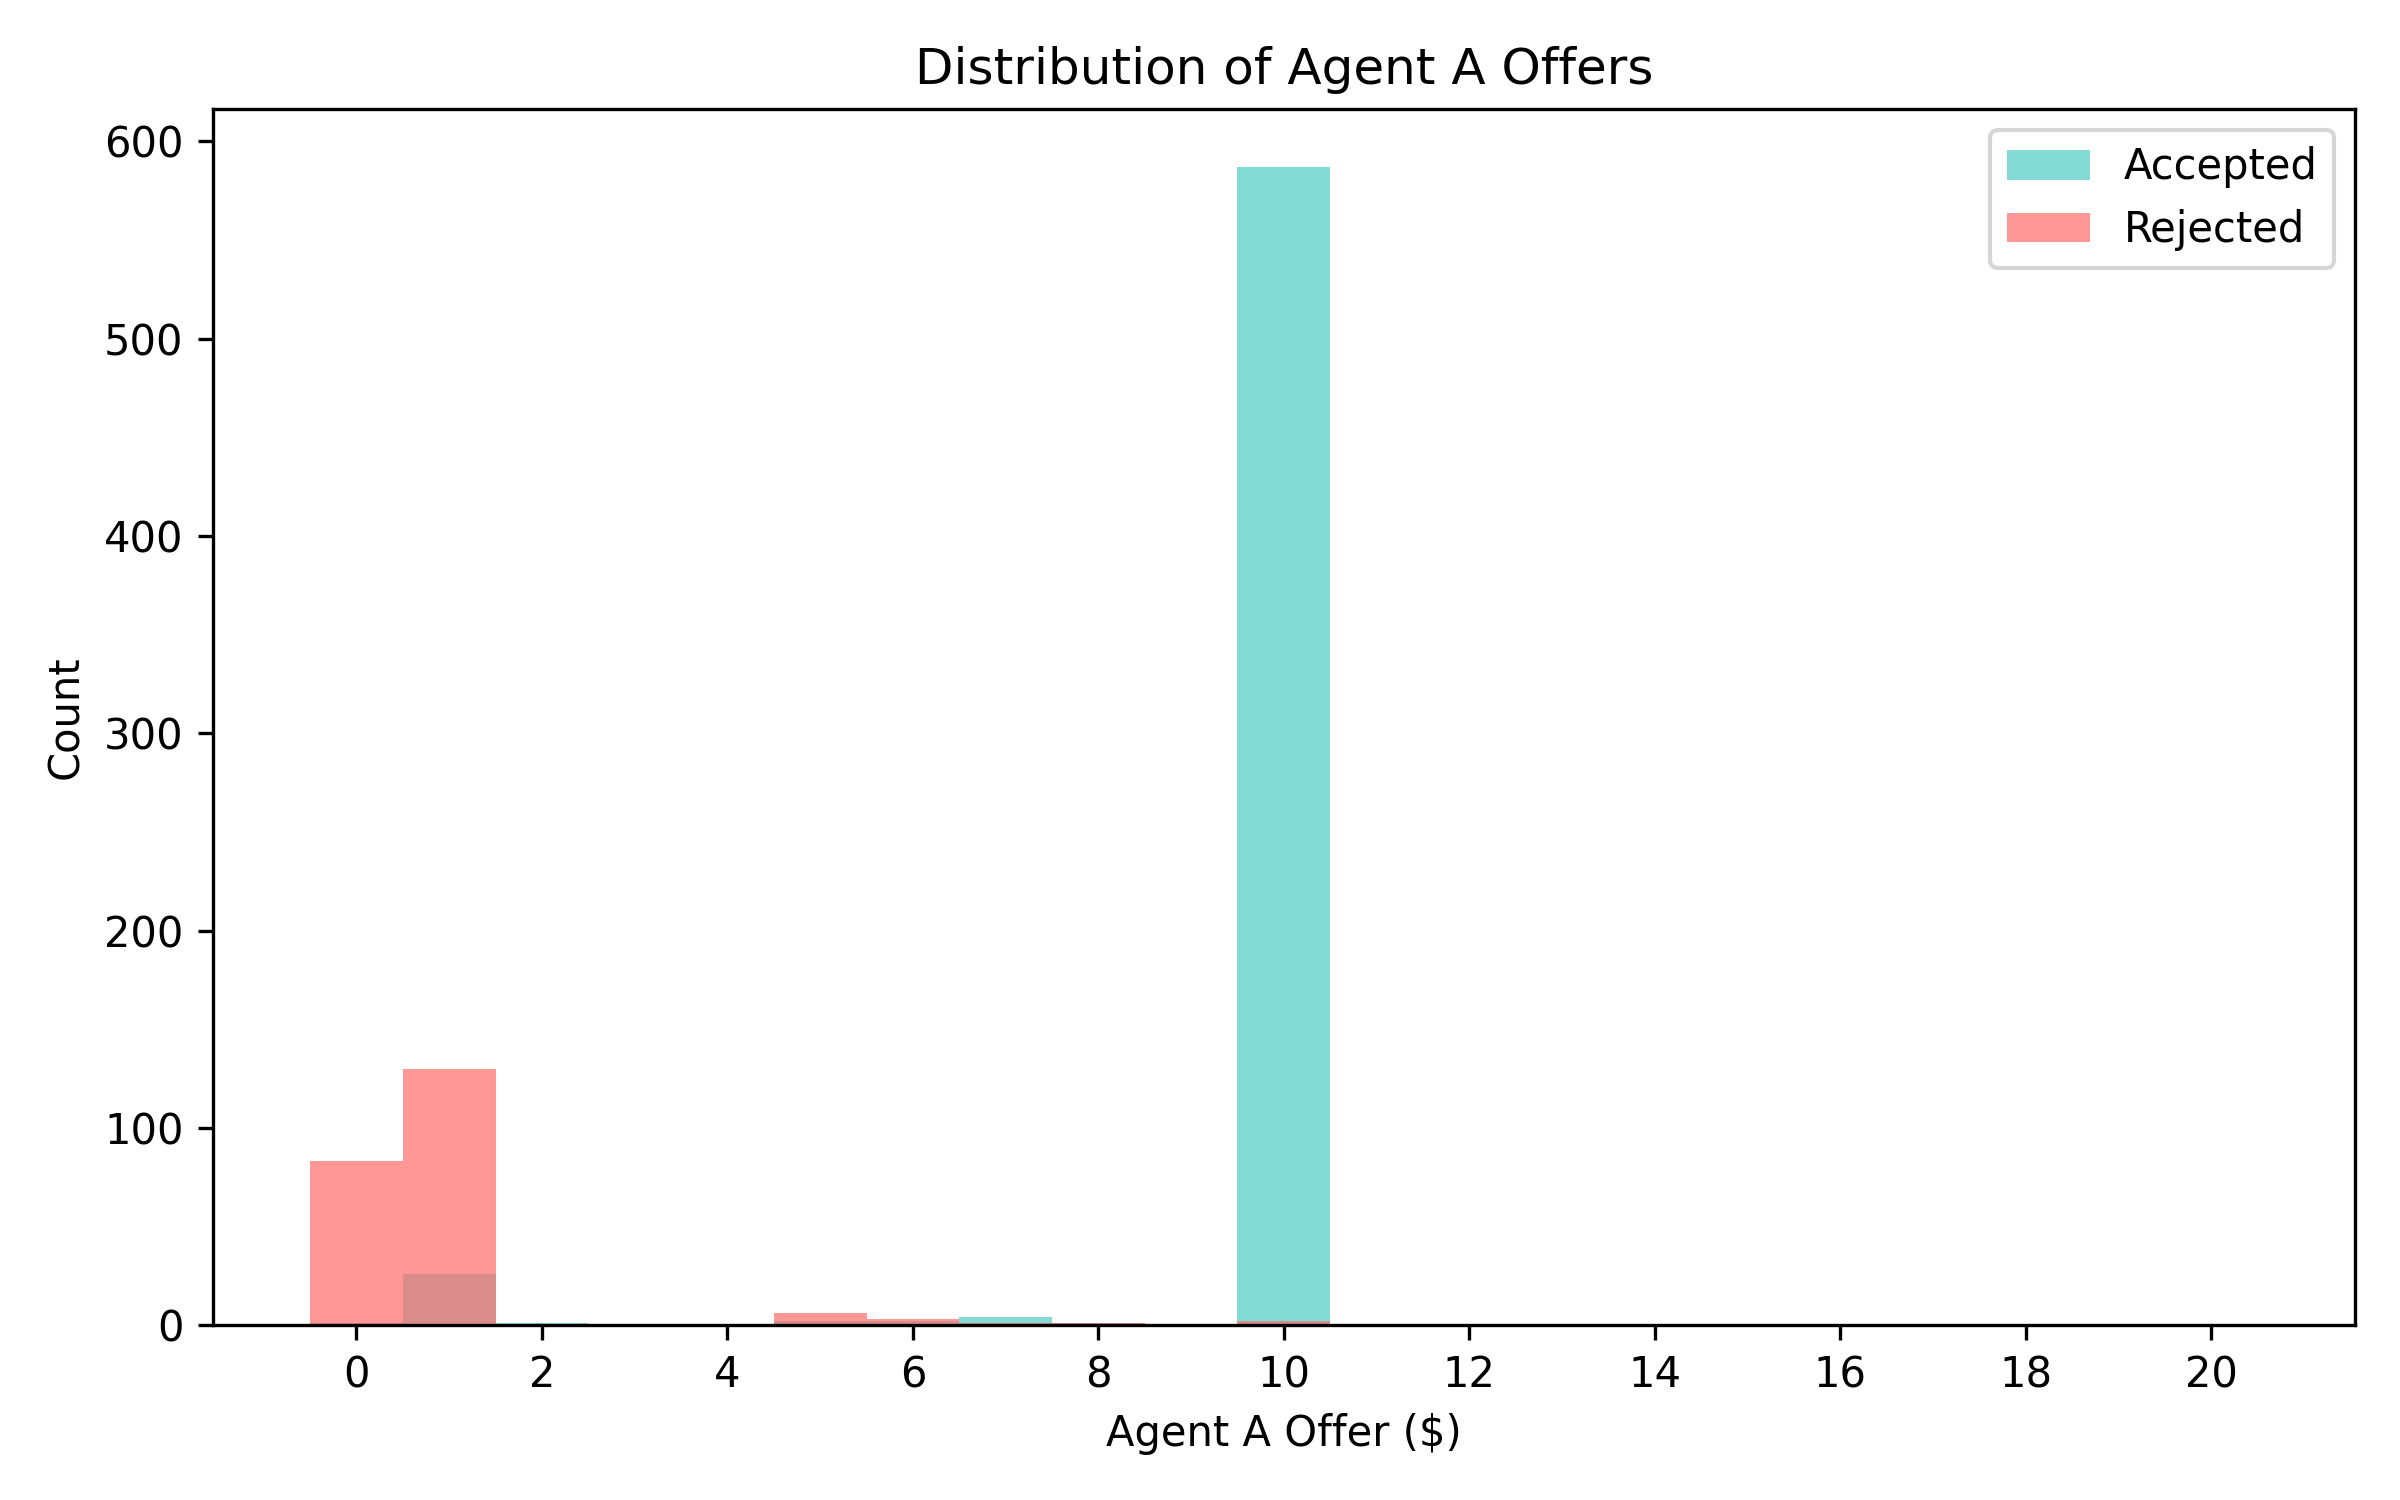
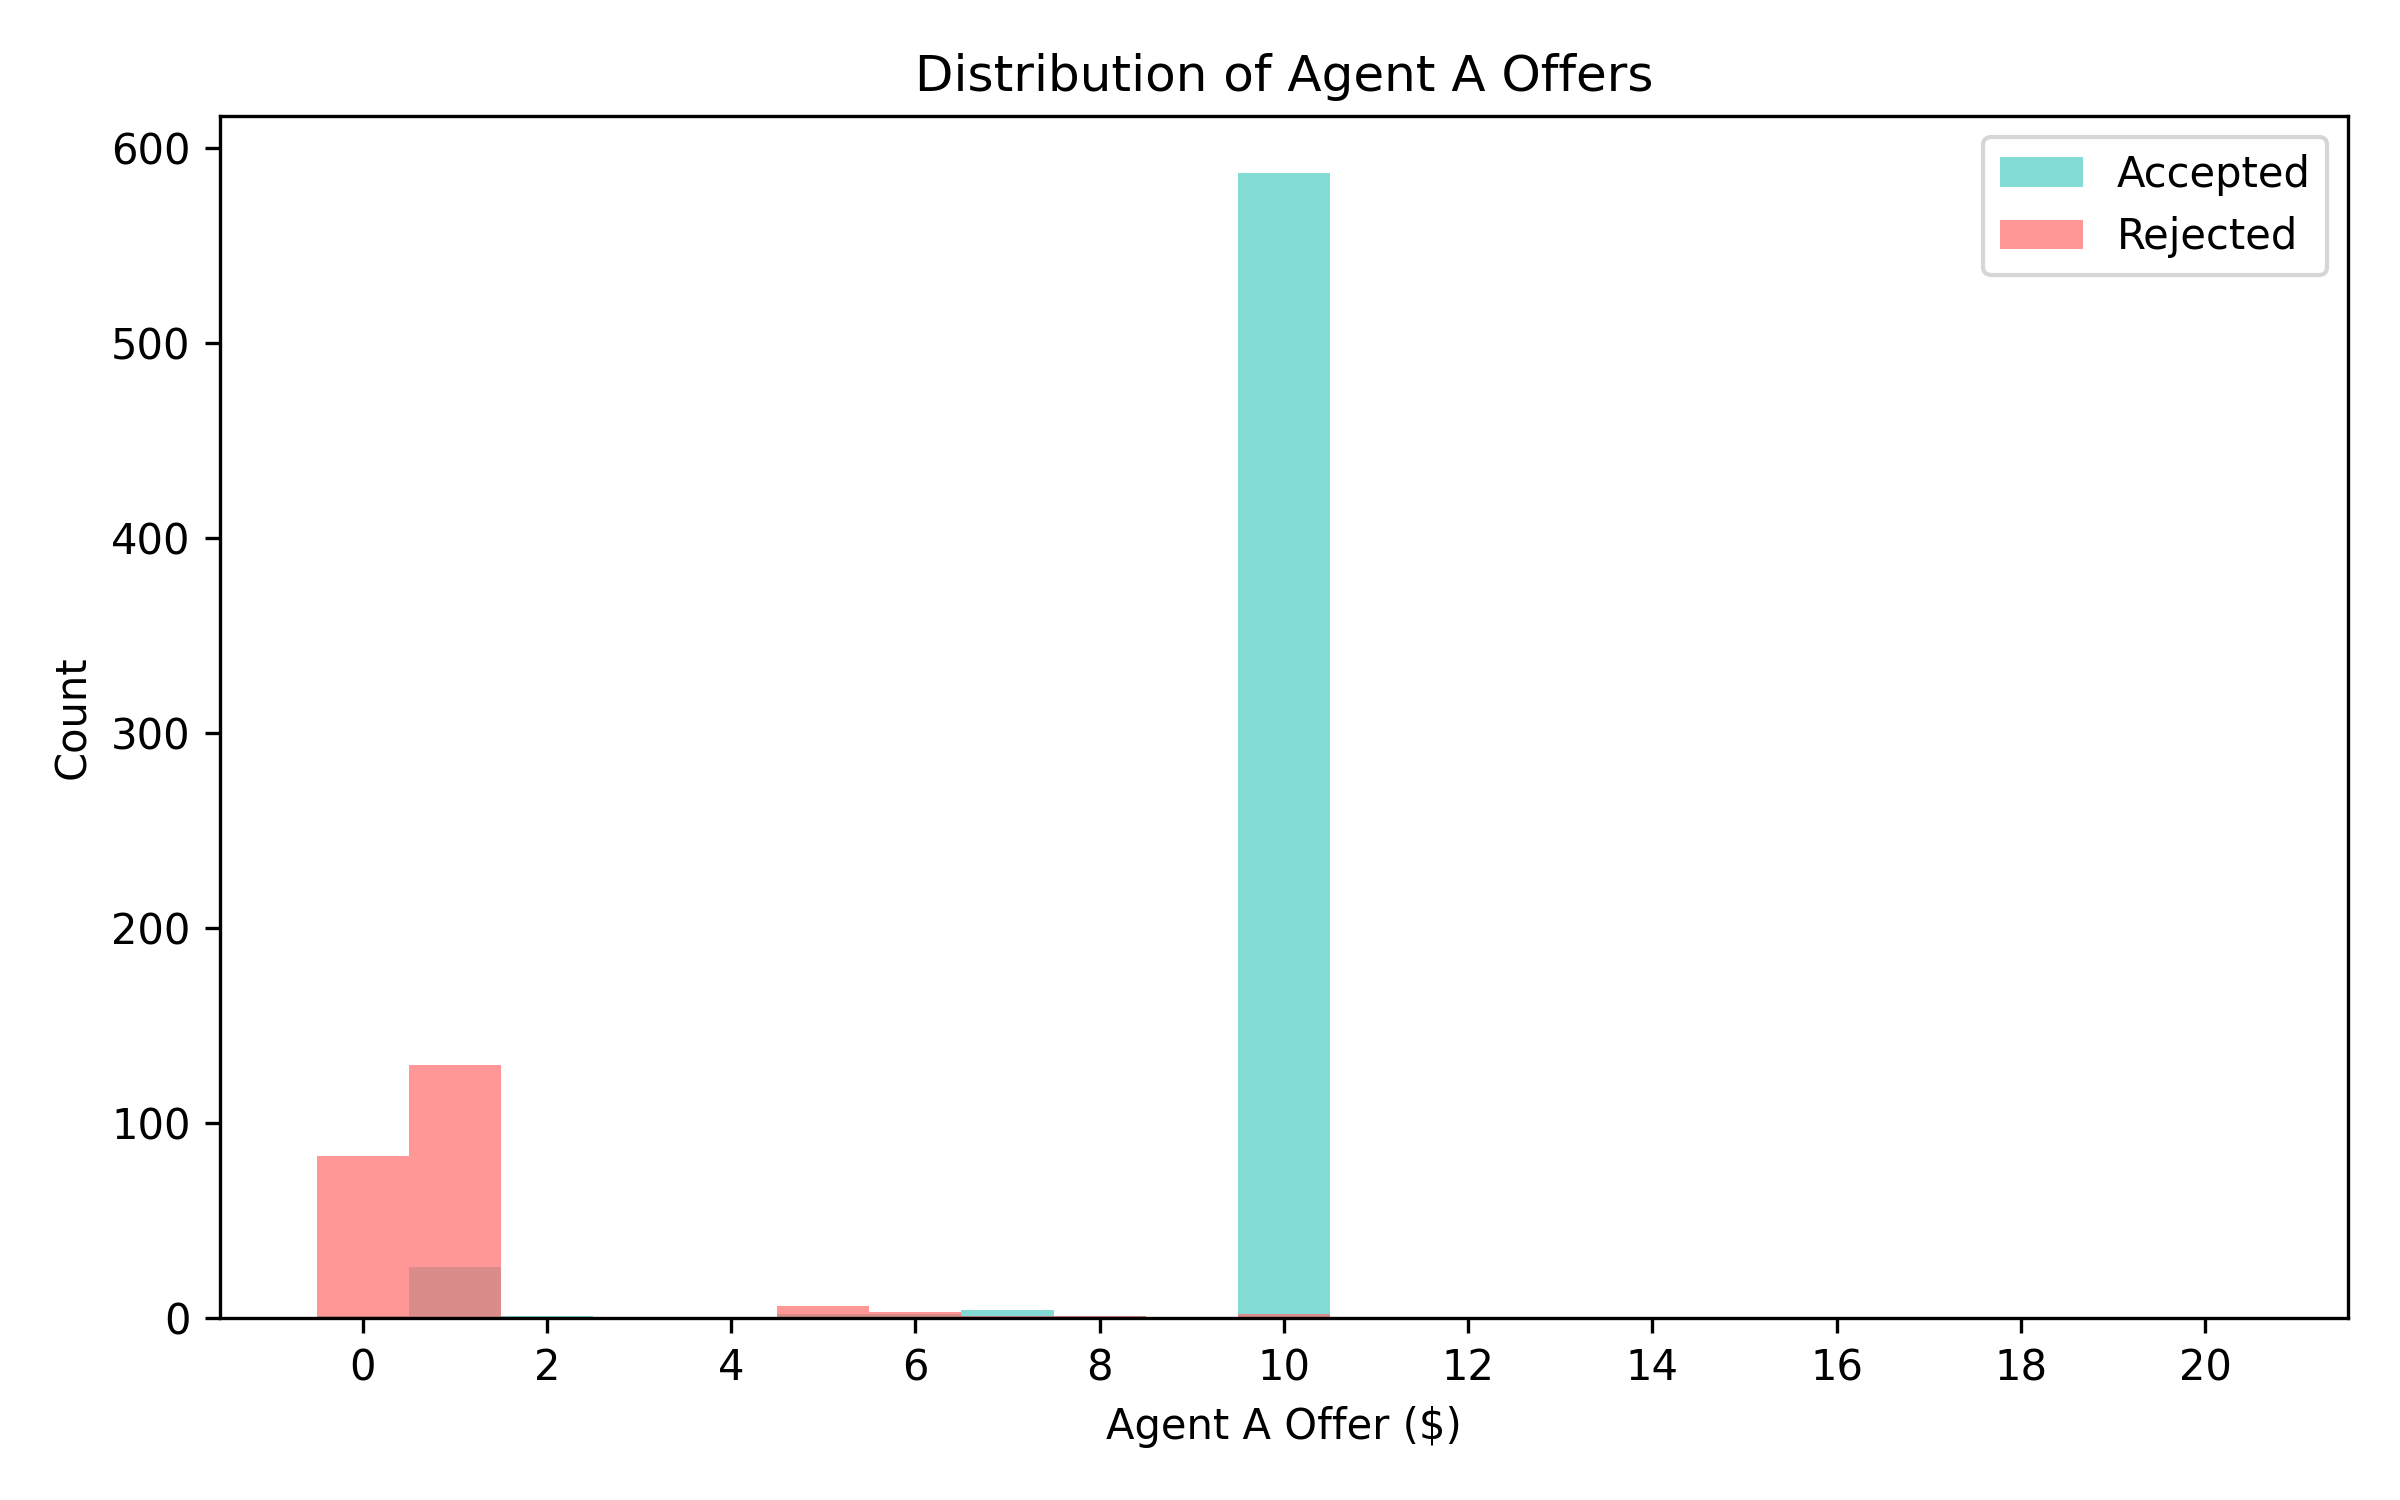
Add plots

Changed region(s): [[0.0, 0.0307, 1.0, 0.9813], [0.1562, 0.7053, 0.2188, 0.736], [0.125, 0.7667, 0.1562, 0.7973]]

diff --git a/src/experiments/analyze_experiment3.py b/src/experiments/analyze_experiment3.py
@@ -12,6 +12,32 @@ import pandas as pd
 TOTAL_AMOUNT = 20
 
 
+def _label_bars_excluding_max(bars, ax, padding: int = 2, max_value: float = 100.0):
+    """Label bars unless they hit the maximum value to avoid title overlap."""
+    labels = []
+    for bar in bars:
+        height = bar.get_height()
+        if np.isclose(height, max_value, atol=1e-6):
+            labels.append("")
+        else:
+            labels.append(f"{height:.1f}%")
+    ax.bar_label(bars, labels=labels, padding=padding)
+
+
+def _sanitize_label(value: Any) -> str:
+    """Generate file-name-friendly labels."""
+    text = str(value).strip().lower().replace(" ", "-")
+    allowed = "".join(ch for ch in text if ch.isalnum() or ch in "-_")
+    return allowed or "unknown"
+
+
+def _title_suffix(awareness: Any, condition: Any) -> str:
+    """Human-friendly suffix for plot titles."""
+    awareness_label = str(awareness).replace("_", " ").title()
+    condition_label = str(condition).replace("_", " ").title()
+    return f" ({awareness_label} / {condition_label})"
+
+
 def load_results(data_dir: Path, timestamp: Optional[str] = None) -> List[Dict[str, Any]]:
     """Load all Experiment 3 result files."""
     if not data_dir.exists():
@@ -129,20 +155,48 @@ def ensure_dir(path: Path):
 
 
 def plot_acceptance_by_condition(df: pd.DataFrame, save_path: Path):
-    rates = df.groupby("condition")["accepted"].mean().sort_values()
+    if "awareness_mode" not in df.columns:
+        rates = df.groupby("condition")["accepted"].mean().sort_index()
+        plt.figure(figsize=(6, 4))
+        ax = plt.gca()
+        bars = ax.bar(rates.index, rates.values * 100, color="#4ECDC4")
+        ax.set_ylabel("Acceptance Rate (%)")
+        ax.set_ylim(0, 100)
+        ax.set_title("Acceptance Rate by Condition")
+        _label_bars_excluding_max(bars, ax)
+        plt.tight_layout(pad=1.3)
+        plt.savefig(save_path, dpi=300)
+        plt.close()
+        return
 
-    plt.figure(figsize=(6, 4))
-    bars = plt.bar(rates.index, rates.values * 100, color="#4ECDC4")
-    plt.ylabel("Acceptance Rate (%)")
-    plt.ylim(0, 100)
-    plt.title("Acceptance Rate by Condition")
-    plt.bar_label(bars, fmt="%.1f%%")
-    plt.tight_layout()
+    grouped = df.groupby(["condition", "awareness_mode"], dropna=False)["accepted"].mean().reset_index()
+    conditions = sorted(df["condition"].dropna().unique())
+    awareness_values = sorted(df["awareness_mode"].dropna().unique())
+    pivot = grouped.pivot(index="condition", columns="awareness_mode", values="accepted")
+    pivot = pivot.reindex(index=conditions, columns=awareness_values)
+
+    x = np.arange(len(conditions))
+    width = 0.8 / max(len(awareness_values), 1)
+
+    plt.figure(figsize=(8, 5))
+    ax = plt.gca()
+    for idx, awareness in enumerate(awareness_values):
+        rates = pivot[awareness].values * 100
+        bar_positions = x - 0.4 + width / 2 + idx * width
+        bars = ax.bar(bar_positions, rates, width=width, label=str(awareness).title())
+        _label_bars_excluding_max(bars, ax, padding=3)
+
+    ax.set_xticks(x, [cond.title() for cond in conditions])
+    ax.set_ylabel("Acceptance Rate (%)")
+    ax.set_ylim(0, 100)
+    ax.set_title("Acceptance Rate by Condition and Awareness")
+    ax.legend(title="Awareness Mode")
+    plt.tight_layout(pad=1.3)
     plt.savefig(save_path, dpi=300)
     plt.close()
 
 
-def plot_offer_histogram(df: pd.DataFrame, save_path: Path):
+def plot_offer_histogram(df: pd.DataFrame, save_path: Path, title_suffix: str = ""):
     plt.figure(figsize=(8, 5))
     bins = np.arange(-0.5, TOTAL_AMOUNT + 1.5, 1)
 
@@ -153,33 +207,18 @@ def plot_offer_histogram(df: pd.DataFrame, save_path: Path):
     plt.hist(rejected_offers, bins=bins, alpha=0.7, label="Rejected", color="#FF6B6B")
     plt.xlabel("Agent A Offer ($)")
     plt.ylabel("Count")
-    plt.title("Distribution of Agent A Offers")
+    title = "Distribution of Agent A Offers"
+    if title_suffix:
+        title += title_suffix
+    plt.title(title)
     plt.legend()
     plt.xticks(range(0, TOTAL_AMOUNT + 1, 2))
-    plt.tight_layout()
+    plt.tight_layout(pad=1.25)
     plt.savefig(save_path, dpi=300)
     plt.close()
 
 
-def plot_payout_scatter(df: pd.DataFrame, save_path: Path):
-    plt.figure(figsize=(6, 6))
-
-    accepted = df["accepted"]
-    colors = np.where(accepted, "#4ECDC4", "#FF6B6B")
-
-    plt.scatter(df["payout_a"], df["payout_b"], c=colors, alpha=0.8, edgecolor="k", linewidth=0.3)
-    plt.xlabel("Payout Agent A ($)")
-    plt.ylabel("Payout Agent B ($)")
-    plt.title("Payout Trade-offs")
-    plt.xlim(-1, TOTAL_AMOUNT + 1)
-    plt.ylim(-1, TOTAL_AMOUNT + 1)
-    plt.grid(alpha=0.2)
-    plt.tight_layout()
-    plt.savefig(save_path, dpi=300)
-    plt.close()
-
-
-def plot_offer_heatmap(df: pd.DataFrame, save_path: Path):
+def plot_offer_heatmap(df: pd.DataFrame, save_path: Path, title_suffix: str = ""):
     pivot = df.pivot_table(
         index="agent_a_model",
         columns="agent_b_model",
@@ -196,10 +235,44 @@ def plot_offer_heatmap(df: pd.DataFrame, save_path: Path):
     plt.colorbar(im, label="Average Offer ($)")
     plt.xticks(range(len(pivot.columns)), pivot.columns, rotation=90)
     plt.yticks(range(len(pivot.index)), pivot.index)
-    plt.title("Average Offer by Agent Pair")
-    plt.tight_layout()
+    title = "Average Offer by Agent Pair"
+    if title_suffix:
+        title += title_suffix
+    plt.title(title)
+    plt.tight_layout(rect=[0.02, 0.05, 0.98, 0.95])
     plt.savefig(save_path, dpi=300)
     plt.close()
+
+
+def plot_segmented_views(df: pd.DataFrame, save_dir: Path):
+    """Create awareness/condition specific plots."""
+    if "awareness_mode" not in df.columns or "condition" not in df.columns:
+        return
+
+    awareness_values = sorted(df["awareness_mode"].dropna().unique())
+    for awareness in awareness_values:
+        awareness_df = df[df["awareness_mode"] == awareness]
+        if awareness_df.empty:
+            continue
+        condition_values = sorted(awareness_df["condition"].dropna().unique())
+        for condition in condition_values:
+            subset = awareness_df[awareness_df["condition"] == condition]
+            if subset.empty:
+                continue
+
+            suffix = _title_suffix(awareness, condition)
+            filename_suffix = f"awareness-{_sanitize_label(awareness)}__condition-{_sanitize_label(condition)}"
+
+            plot_offer_histogram(
+                subset,
+                save_dir / f"offer_distribution_{filename_suffix}.png",
+                title_suffix=suffix,
+            )
+            plot_offer_heatmap(
+                subset,
+                save_dir / f"offer_heatmap_{filename_suffix}.png",
+                title_suffix=suffix,
+            )
 
 
 def main():
@@ -234,8 +307,8 @@ def main():
         ensure_dir(save_dir)
         plot_acceptance_by_condition(df, save_dir / "acceptance_by_condition.png")
         plot_offer_histogram(df, save_dir / "offer_distribution.png")
-        plot_payout_scatter(df, save_dir / "payout_scatter.png")
         plot_offer_heatmap(df, save_dir / "offer_heatmap.png")
+        plot_segmented_views(df, save_dir)
         print(f"\nPlots saved to {save_dir}")
 
 
